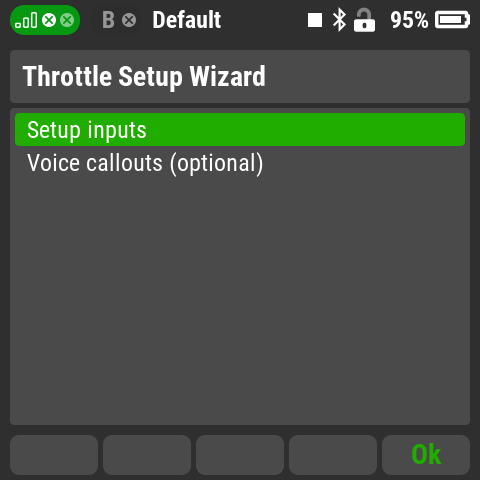
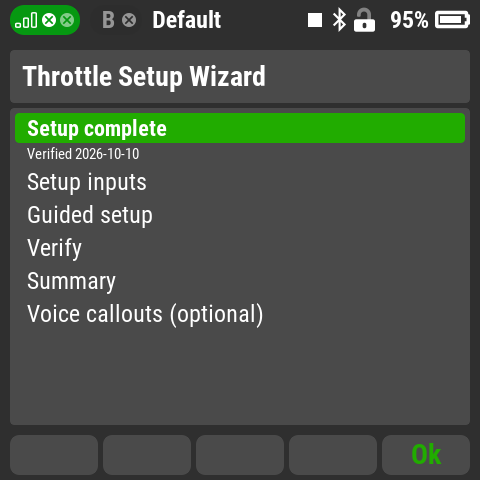
Hide unusable Home links, drop duplicate date; guide and README screenshots
From Aaron's screenshots: the firmware draws disabled links like active ones, so Guided setup, Verify and Summary are hidden until usable; Summary no longer repeats the verified date. Ten new screenshots (home, five guide steps, verify ready/check/passed, summary) added to the guide's new Screens section; README shows a guide step, verify passed and the summary.

Changed region(s): [[0.0312, 0.25, 0.9688, 0.4688], [0.0625, 0.5625, 0.5625, 0.6875], [0.0625, 0.5, 0.1875, 0.5312]]

diff --git a/docs/apps/throttle-setup-wizard.md b/docs/apps/throttle-setup-wizard.md
@@ -82,11 +82,30 @@ check: fuel off, or the ECU unplugged from the engine.
    ECU** (Teach RC).
 6. **Voice callouts (optional):** see step 7 below.
 
-<img src="img/throttle-setup-wizard-home.png" width="240" alt="Throttle Setup Wizard home screen with Setup inputs and Voice callouts">
+### Screens
+
+<img src="img/throttle-setup-wizard-home.png" width="240" alt="Home: Setup complete, verified 2026-10-10, with links to Setup inputs, Guided setup, Verify, Summary and Voice callouts">
 <img src="img/throttle-setup-wizard-setup-inputs.png" width="240" alt="Setup inputs: engine warning, safety switch Sf at CUT (+100%), throttle stick P4 at idle (-100%), throttle output O1">
 
-*The app's home screen, and Setup inputs showing the safety switch at CUT
-and the stick at idle, live.*
+*Home after a completed setup, and Setup inputs showing the safety switch
+at CUT and the stick at idle, live.*
+
+<img src="img/throttle-setup-wizard-guide-1.png" width="240" alt="Guided setup step 1 of 5: Servo Setup, Max negative -80%, Max positive 80%, leave the limits at -125/125%">
+<img src="img/throttle-setup-wizard-guide-2.png" width="240" alt="Guided setup step 2 of 5: Other Model Options, Throttle Cut, Throttle-Cut output value -100%">
+<img src="img/throttle-setup-wizard-guide-3.png" width="240" alt="Guided setup step 3 of 5: Throttle Idle on the same switch at RUN, Throttle-Idle offset 20%">
+<img src="img/throttle-setup-wizard-guide-4.png" width="240" alt="Guided setup step 4 of 5: receiver Fail-Safe enabled 1.5s, throttle OutPin mode Out OFF">
+<img src="img/throttle-setup-wizard-guide-5.png" width="240" alt="Guided setup step 5 of 5: use a JETI 2-position locking switch within easy reach">
+
+*Guided setup: five steps, each with the exact value to enter and an
+**Open** button that jumps to that menu.*
+
+<img src="img/throttle-setup-wizard-verify-check.png" width="240" alt="Verify, output check: switch RUN (not cut), stick idle then full; Do: now move the stick fully up">
+<img src="img/throttle-setup-wizard-verify-passed.png" width="240" alt="Verify: 4 of 4 Full, all four passed, press Next">
+<img src="img/throttle-setup-wizard-summary.png" width="240" alt="Summary: setup complete, safety switch Sf, ECU Other (cut -100%), targets 1100/1200/1900, measured 1100/1100/1202/1900, next: remove the app and re-learn the ECU">
+
+*Verify: each test shows what it needs (Set), where your switch and stick
+are now (Now) and what to do (Do). Then the summary, with the measured
+values and the next step.*
 
 ## The setup by hand
 

diff --git a/README.md b/README.md
@@ -27,13 +27,13 @@ Taken on a DS-24 II transmitter.
 <img src="docs/apps/img/flameout-alarm-flameout.png" width="200" alt="Flameout Alarm showing the red FLAMEOUT alarm at 0 RPM">
 <img src="docs/apps/img/flameout-alarm-disarmed.png" width="200" alt="Flameout Alarm disarmed at 35,000 RPM">
 
-**Throttle Setup Wizard** (in development): setup inputs, voice callouts,
-the transmitter's Sounds on Event. Full guide:
+**Throttle Setup Wizard** (in development): a guided step, verify passed,
+the summary. Full guide:
 [Throttle Setup Wizard](docs/apps/throttle-setup-wizard.md).
 
-<img src="docs/apps/img/throttle-setup-wizard-setup-inputs.png" width="200" alt="Throttle Setup Wizard Setup inputs: safety switch Sf at CUT, throttle stick P4 at idle, output O1">
-<img src="docs/apps/img/throttle-setup-wizard-voice-callouts.png" width="200" alt="Throttle Setup Wizard Voice callouts: TurbOff.wav and TurbOn.wav copied to /Audio/en">
-<img src="docs/apps/img/throttle-setup-wizard-sound-events.png" width="200" alt="Sounds on Event with TURBON.WAV and TURBOFF.WAV on switch Sf">
+<img src="docs/apps/img/throttle-setup-wizard-guide-2.png" width="200" alt="Throttle Setup Wizard guided step 2: Throttle-Cut output value -100%">
+<img src="docs/apps/img/throttle-setup-wizard-verify-passed.png" width="200" alt="Throttle Setup Wizard Verify: all four passed">
+<img src="docs/apps/img/throttle-setup-wizard-summary.png" width="200" alt="Throttle Setup Wizard Summary: setup complete with measured values">
 
 ### Speed Gauge
 
